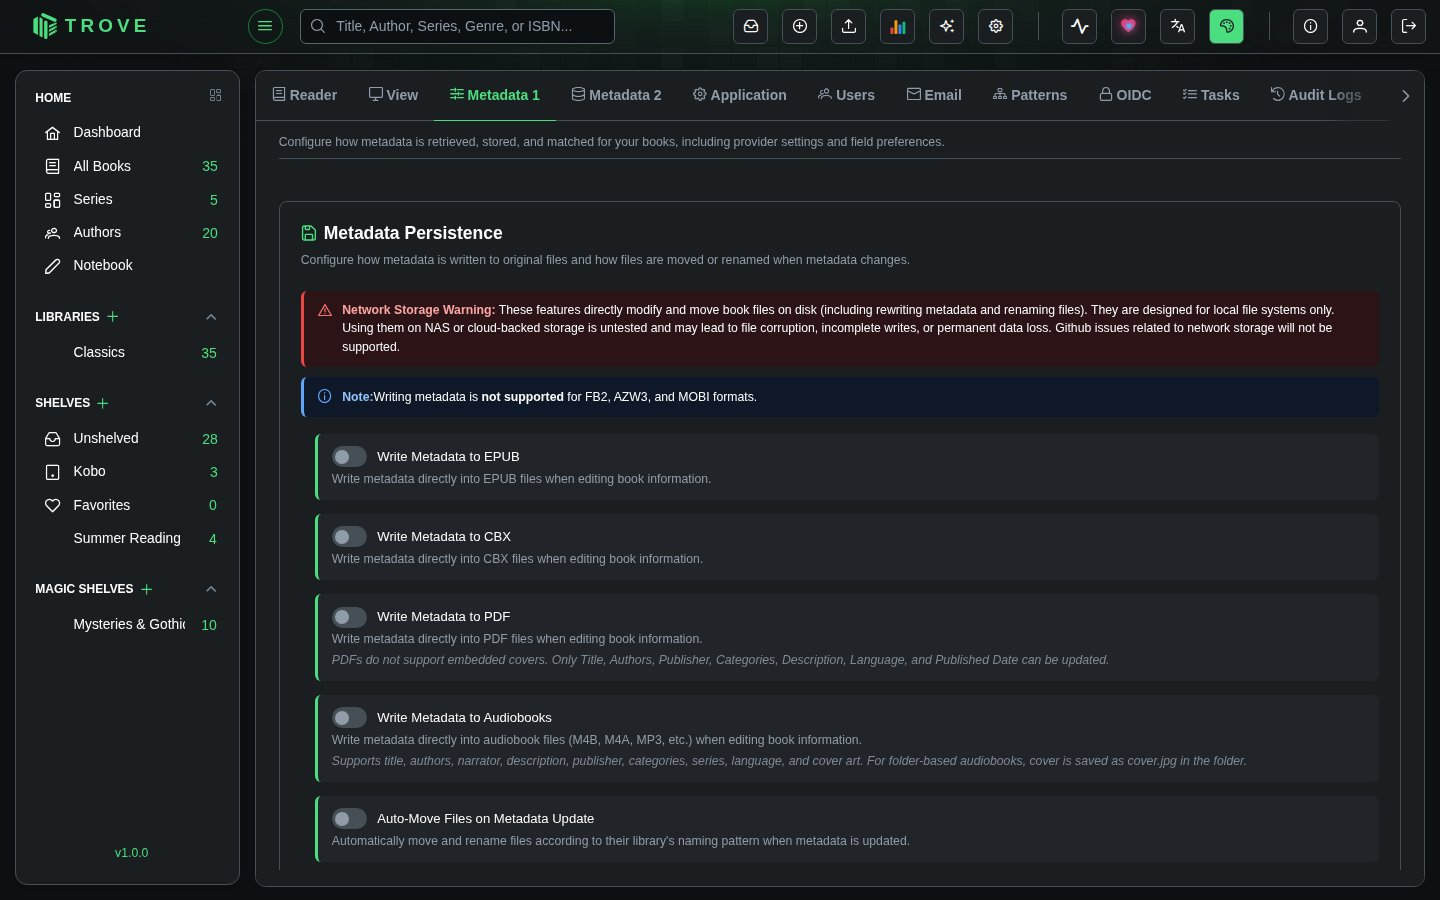
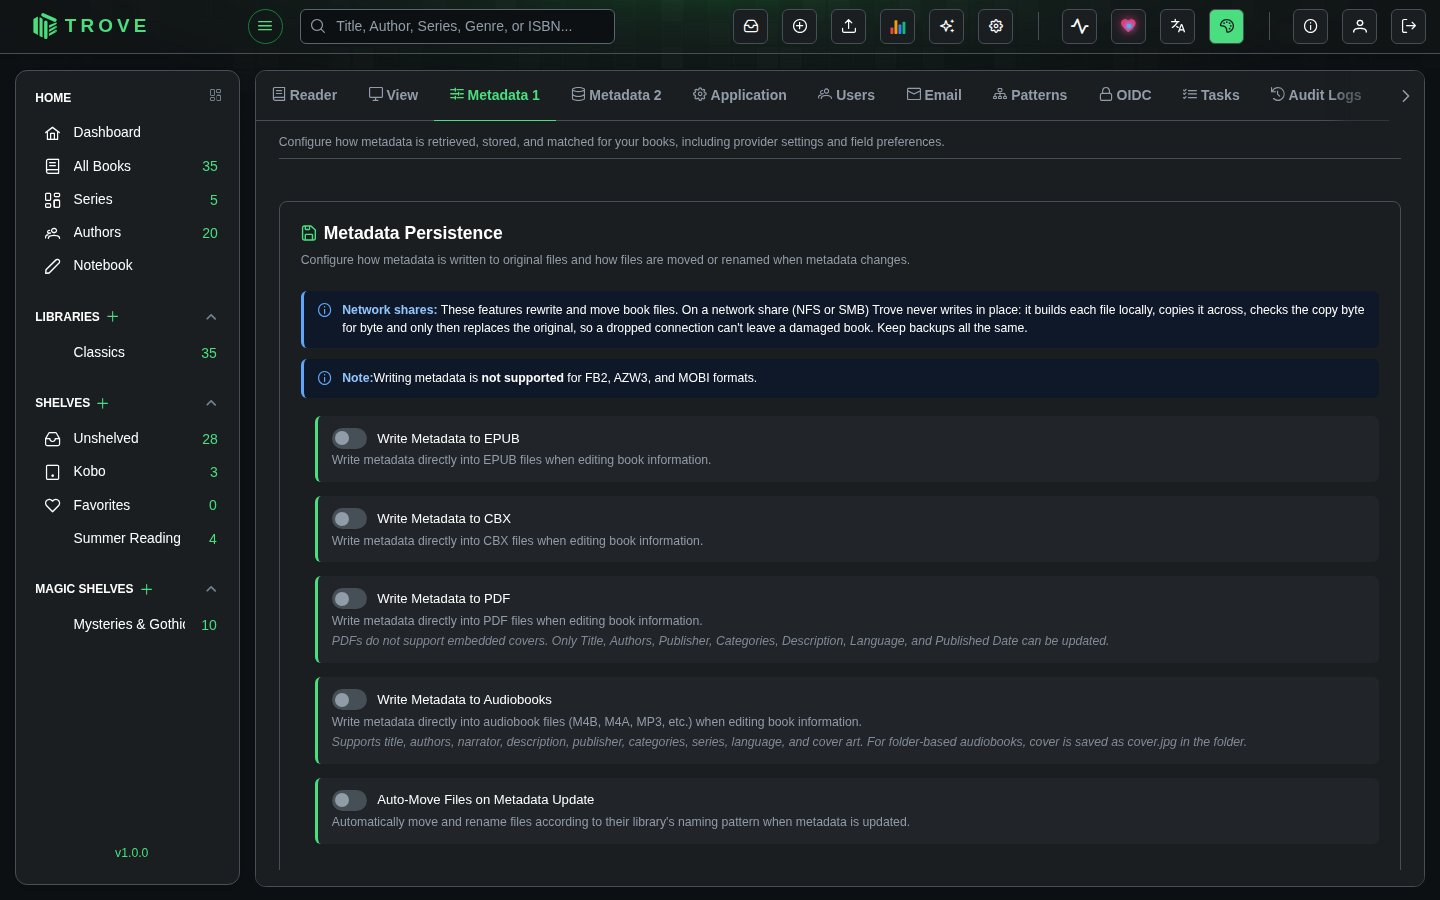
Help: sample library and data scripts; links fixed; storage notice restyled
build-library.sh and sample-data.py recreate the public-domain demonstration library and its
details, biographies and reading history, so the screenshots can be taken again from scratch; the
README describes the whole run. Ordinary links in the help no longer go through the Wayback Machine,
two stale anchors are fixed, and the index page's title no longer repeats itself.

The metadata settings' note about network shares is information now rather than a warning, so it
uses the information style; the screenshots of that section and of the application settings are
retaken from the updated app.

Claude-Session: https://claude.ai/code/session_01CoYTdkM8qacvnj6mvEZPtP

Changed region(s): [[0.1875, 0.3111, 0.9688, 0.9644]]

diff --git a/booklore-ui/public/docs/metadata/metadata-settings.html b/booklore-ui/public/docs/metadata/metadata-settings.html
@@ -49,7 +49,7 @@
 <li><strong>Additional fields</strong>: Moods, tags, age rating, content rating, narrator, abridged status, comic-specific metadata</li>
 <li><strong>File metadata</strong>: Version number, generation timestamp, and source identifier</li>
 </ul>
-<aside class="note note-info"><p class="note-title">Sidecar Import &amp; Export</p><p>You can also bulk export and import sidecar files per library from the <a href="metadata-fetch-configuration.html#-sidecar-export--import">Fetch Configuration</a> page.</p></aside>
+<aside class="note note-info"><p class="note-title">Sidecar Import &amp; Export</p><p>You can also bulk export and import sidecar files per library from the <a href="metadata-fetch-configuration.html#sidecar-export-import">Fetch Configuration</a> page.</p></aside>
 
 <h2 id="automatic-metadata-download">Automatic Metadata Download</h2>
 <p>Configure whether metadata is automatically fetched from your configured providers when new books arrive through Bookdrop.</p>
@@ -63,7 +63,7 @@
 <p>Providers are split into two groups:</p>
 <h3 id="providers-with-configuration">Providers with Configuration</h3>
 <p>These providers require additional setup (API keys, region selection, or cookies) before they can be used effectively.</p>
-<div class="table-wrap"><table><thead><tr><th>Provider</th><th>Configuration</th><th>Details</th></tr></thead><tbody><tr><td><strong>Amazon</strong></td><td>Region, Cookie</td><td>Select your Amazon region from 19 available domains (amazon.com, amazon.de, amazon.co.uk, etc.). Providing your Amazon session cookie is optional but <strong>highly recommended</strong> as it unlocks richer book metadata and bypasses rate limits. See the <a href="amazon-cookie.html">Amazon Cookie</a> guide.</td></tr><tr><td><strong>Google Books</strong></td><td>Language Restriction, API Key</td><td>Optionally restrict results to a specific language (Dutch, English, French, German, Italian, Japanese, Polish, Portuguese, Spanish, Swedish). Providing a Google Books API key increases rate limits and improves reliability.</td></tr><tr><td><strong>Hardcover</strong></td><td>API Token</td><td>Requires an API token from <a href="https://web.archive.org/web/20260303063104/https://hardcover.app/account/api">hardcover.app/account/api</a>. See the <a href="hardcover-token.html">Hardcover API</a> guide for setup instructions.</td></tr><tr><td><strong>Bookshelf</strong></td><td>API Token</td><td>Book details from <a href="https://bookshelf.nz">bookshelf.nz</a>, using an API token from your account there.</td></tr><tr><td><strong>Comic Vine</strong></td><td>API Key</td><td>Requires a Comic Vine API key for accessing comic book and graphic novel metadata.</td></tr><tr><td><strong>Audible</strong></td><td>Region</td><td>Select your Audible region from 10 available domains (audible.com, audible.co.uk, audible.de, etc.) for audiobook-specific metadata.</td></tr></tbody></table></div>
+<div class="table-wrap"><table><thead><tr><th>Provider</th><th>Configuration</th><th>Details</th></tr></thead><tbody><tr><td><strong>Amazon</strong></td><td>Region, Cookie</td><td>Select your Amazon region from 19 available domains (amazon.com, amazon.de, amazon.co.uk, etc.). Providing your Amazon session cookie is optional but <strong>highly recommended</strong> as it unlocks richer book metadata and bypasses rate limits. See the <a href="amazon-cookie.html">Amazon Cookie</a> guide.</td></tr><tr><td><strong>Google Books</strong></td><td>Language Restriction, API Key</td><td>Optionally restrict results to a specific language (Dutch, English, French, German, Italian, Japanese, Polish, Portuguese, Spanish, Swedish). Providing a Google Books API key increases rate limits and improves reliability.</td></tr><tr><td><strong>Hardcover</strong></td><td>API Token</td><td>Requires an API token from <a href="https://hardcover.app/account/api">hardcover.app/account/api</a>. See the <a href="hardcover-token.html">Hardcover API</a> guide for setup instructions.</td></tr><tr><td><strong>Bookshelf</strong></td><td>API Token</td><td>Book details from <a href="https://bookshelf.nz">bookshelf.nz</a>, using an API token from your account there.</td></tr><tr><td><strong>Comic Vine</strong></td><td>API Key</td><td>Requires a Comic Vine API key for accessing comic book and graphic novel metadata.</td></tr><tr><td><strong>Audible</strong></td><td>Region</td><td>Select your Audible region from 10 available domains (audible.com, audible.co.uk, audible.de, etc.) for audiobook-specific metadata.</td></tr></tbody></table></div>
 <aside class="note note-tip"><p class="note-title">Amazon and Goodreads</p><p>Both sites turn away automated requests. On a native install, Trove loads their pages in a headless browser, spaces its requests out and backs off when asked to, so lookups keep working during large fetches. Adding your Amazon cookie still helps.</p></aside>
 <h3 id="ready-to-use-providers">Ready-to-Use Providers</h3>
 <p>These providers work out of the box with no additional configuration. Simply toggle them on or off.</p>

diff --git a/booklore-ui/public/docs/reader-preferences.html b/booklore-ui/public/docs/reader-preferences.html
@@ -34,7 +34,7 @@
 <div class="table-wrap"><table><thead><tr><th>Setting</th><th>Options</th><th>Default</th><th>Description</th></tr></thead><tbody><tr><td><strong>Theme</strong></td><td>13 color themes</td><td>Sepia</td><td>Select a color scheme to match your reading environment and comfort. Each theme defines text color, background color, and link color. Available themes: Default, Gray, Sepia, Crimson, Meadow, Rosewood, Azure, Dawnlight, Ember, Aurora, Ocean, Mist, and AMOLED.</td></tr><tr><td><strong>Dark Mode</strong></td><td>Light, Dark</td><td>Light</td><td>Switch between light and dark backgrounds for day or night reading. Each theme has distinct light and dark variants.</td></tr></tbody></table></div>
 <h3 id="typography">Typography</h3>
 <figure><img alt="eBook Typography" loading="lazy" src="images/reader-preferences/ebook-typography.jpg"/></figure>
-<div class="table-wrap"><table><thead><tr><th>Setting</th><th>Options</th><th>Default</th><th>Description</th></tr></thead><tbody><tr><td><strong>Font Family</strong></td><td>Default, Serif, Sans Serif, Roboto, Cursive, Monospace, + custom fonts</td><td>Serif</td><td>"Default" uses the font embedded in the book file. Custom fonts uploaded through the <a href="#-custom-font-library">Custom Font Library</a> also appear here.</td></tr><tr><td><strong>Font Size</strong></td><td>8pt to 72pt (1pt steps)</td><td>16pt</td><td>Increase or decrease text size in points for optimal readability.</td></tr><tr><td><strong>Line Height</strong></td><td>1.0 to 3.0 (0.1 steps)</td><td>1.5</td><td>Adjust vertical spacing between lines for better legibility. Higher values create more breathing room between lines.</td></tr><tr><td><strong>Text Justification</strong></td><td>Left, Justified</td><td>Left</td><td>Align text to the left or justify it for a clean edge on both sides. Justified text spreads words to fill the full line width.</td></tr><tr><td><strong>Hyphenation</strong></td><td>Off, On</td><td>Off</td><td>Enable to break long words at line ends for a smoother text flow. Works best with justified text to reduce uneven spacing.</td></tr></tbody></table></div>
+<div class="table-wrap"><table><thead><tr><th>Setting</th><th>Options</th><th>Default</th><th>Description</th></tr></thead><tbody><tr><td><strong>Font Family</strong></td><td>Default, Serif, Sans Serif, Roboto, Cursive, Monospace, + custom fonts</td><td>Serif</td><td>"Default" uses the font embedded in the book file. Custom fonts uploaded through the <a href="#custom-font-library">Custom Font Library</a> also appear here.</td></tr><tr><td><strong>Font Size</strong></td><td>8pt to 72pt (1pt steps)</td><td>16pt</td><td>Increase or decrease text size in points for optimal readability.</td></tr><tr><td><strong>Line Height</strong></td><td>1.0 to 3.0 (0.1 steps)</td><td>1.5</td><td>Adjust vertical spacing between lines for better legibility. Higher values create more breathing room between lines.</td></tr><tr><td><strong>Text Justification</strong></td><td>Left, Justified</td><td>Left</td><td>Align text to the left or justify it for a clean edge on both sides. Justified text spreads words to fill the full line width.</td></tr><tr><td><strong>Hyphenation</strong></td><td>Off, On</td><td>Off</td><td>Enable to break long words at line ends for a smoother text flow. Works best with justified text to reduce uneven spacing.</td></tr></tbody></table></div>
 <h3 id="layout">Layout</h3>
 <figure><img alt="eBook Layout" loading="lazy" src="images/reader-preferences/ebook-layout.jpg"/></figure>
 <div class="table-wrap"><table><thead><tr><th>Setting</th><th>Options</th><th>Default</th><th>Description</th></tr></thead><tbody><tr><td><strong>Flow</strong></td><td>Paginated, Scrolled</td><td>Paginated</td><td>Choose between paginated (page-by-page) or continuous scrolling flow. Paginated mimics a physical book; scrolled provides a continuous reading stream.</td></tr><tr><td><strong>Max Columns</strong></td><td>1 to 4</td><td>2</td><td>Set how many columns the text is split into on wide screens. More columns work well on large monitors; single column is ideal for narrow screens.</td></tr><tr><td><strong>Column Gap</strong></td><td>0% to 50% (5% steps)</td><td>5%</td><td>Control the space between columns for a balanced layout. Only applies when using multiple columns.</td></tr><tr><td><strong>Max Width</strong></td><td>400px to 2000px (50px steps)</td><td>720px</td><td>Limit the maximum width of the reading area for easier line tracking. Narrower widths reduce eye strain on wide displays.</td></tr><tr><td><strong>Max Height</strong></td><td>400px to 2000px (50px steps)</td><td>1440px</td><td>Limit the maximum height of the reading area to fit your screen.</td></tr></tbody></table></div>

diff --git a/booklore-ui/public/docs/tools/devices.html b/booklore-ui/public/docs/tools/devices.html
@@ -31,11 +31,11 @@
 <aside class="note note-tip"><p class="note-title">Setting Up Your KOReader Device</p><p>On your KOReader device, go to <strong>Tools &gt; Progress sync &gt; Custom sync server</strong> and enter the API Path, Username, and Password shown on this page.</p></aside>
 
 <h2 id="hardcover-integration">Hardcover Integration</h2>
-<p>Sync your KOReader reading progress from Trove to your <a href="https://web.archive.org/web/20260309185346/https://hardcover.app/">Hardcover</a> account. When enabled, progress updates from KOReader are automatically pushed to Hardcover.</p>
+<p>Sync your KOReader reading progress from Trove to your <a href="https://hardcover.app/">Hardcover</a> account. When enabled, progress updates from KOReader are automatically pushed to Hardcover.</p>
 <p>Requires the <strong>KOReader Sync</strong> or <strong>Kobo Sync</strong> permission.</p>
 <figure><img alt="Hardcover Integration" loading="lazy" src="../images/tools/devices/hardcover-integration.jpg"/></figure>
 <h3 id="configuration">Configuration</h3>
-<div class="table-wrap"><table><thead><tr><th>Setting</th><th>Description</th></tr></thead><tbody><tr><td><strong>Sync KOReader Reading Progress to Hardcover</strong></td><td>Enable or disable the sync. When enabled, the API Key field appears.</td></tr><tr><td><strong>Hardcover API Key</strong></td><td>Your personal API key from Hardcover. Get it from <a href="https://web.archive.org/web/20260309185346/https://hardcover.app/account/api">hardcover.app/account/api</a>. This key is private to your account.</td></tr></tbody></table></div>
+<div class="table-wrap"><table><thead><tr><th>Setting</th><th>Description</th></tr></thead><tbody><tr><td><strong>Sync KOReader Reading Progress to Hardcover</strong></td><td>Enable or disable the sync. When enabled, the API Key field appears.</td></tr><tr><td><strong>Hardcover API Key</strong></td><td>Your personal API key from Hardcover. Get it from <a href="https://hardcover.app/account/api">hardcover.app/account/api</a>. This key is private to your account.</td></tr></tbody></table></div>
 <aside class="note note-info"><p class="note-title">How It Works</p><p>When KOReader progress is synced to Trove, Trove automatically forwards the update to Hardcover. Books are marked as "Currently Reading" when progress begins and "Read" when progress reaches 99%+. Trove matches books to Hardcover using the Hardcover book ID stored in metadata.</p></aside>
 
 <p>Step-by-step setup is in <a href="../integration/koreader.html">KOReader</a>.</p>
@@ -66,7 +66,7 @@
 <li>Kobo sync creates a dedicated "Kobo" shelf automatically. Add books to this shelf (or enable auto-add) to sync them to your device.</li>
 <li>Hardcover sync is triggered automatically whenever KOReader progress is updated. There is no manual sync button.</li>
 <li>Reading progress from KOReader and Kobo is stored separately, so both devices can be used independently.</li>
-<li>KEPUB conversion uses the <a href="https://web.archive.org/web/20260309185346/https://github.com/pgaskin/kepubify">kepubify</a> tool and is handled server-side.</li>
+<li>KEPUB conversion uses the <a href="https://github.com/pgaskin/kepubify">kepubify</a> tool and is handled server-side.</li>
 <li>All device settings changes are reflected immediately without needing to restart the server.</li>
 </ul>
 </main>

diff --git a/booklore-ui/public/docs/metadata/hardcover-token.html b/booklore-ui/public/docs/metadata/hardcover-token.html
@@ -16,12 +16,12 @@
 <nav class="sidebar" id="docs-nav" aria-label="Help topics"></nav>
 <main class="doc">
 <h1>Hardcover token</h1>
-<p class="lede"><a href="https://web.archive.org/web/20260316213240/https://hardcover.app/">Hardcover</a> is a book tracking and discovery platform with rich metadata: covers, descriptions, community ratings, review counts, moods, and tags. To use it as a metadata provider in Trove, you need a free API token from your Hardcover account.</p>
+<p class="lede"><a href="https://hardcover.app/">Hardcover</a> is a book tracking and discovery platform with rich metadata: covers, descriptions, community ratings, review counts, moods, and tags. To use it as a metadata provider in Trove, you need a free API token from your Hardcover account.</p>
 
 <h2 id="get-your-token">Get Your Token</h2>
 <ol>
-<li>Sign up or log in at <a href="https://web.archive.org/web/20260316213240/https://hardcover.app/">hardcover.app</a></li>
-<li>Go to <a href="https://web.archive.org/web/20260316213240/https://hardcover.app/account/api">Account &gt; API</a> to open the API Access page</li>
+<li>Sign up or log in at <a href="https://hardcover.app/">hardcover.app</a></li>
+<li>Go to <a href="https://hardcover.app/account/api">Account &gt; API</a> to open the API Access page</li>
 <li>Copy the token from the text box. It starts with <code>Bearer</code> followed by a long string beginning with <code>eyJ...</code></li>
 </ol>
 <figure><img alt="Hardcover API Access page showing the Bearer token" loading="lazy" src="https://web.archive.org/web/20260316213240im_/https://booklore.org/assets/images/hardcover-1-208cf5d155cda0086886fcba1e62c12b.jpg"/></figure>

diff --git a/booklore-ui/public/docs/integration/koreader.html b/booklore-ui/public/docs/integration/koreader.html
@@ -16,7 +16,7 @@
 <nav class="sidebar" id="docs-nav" aria-label="Help topics"></nav>
 <main class="doc">
 <h1>KOReader</h1>
-<p class="lede">KOReader sync lets you push and pull reading progress between <a href="https://web.archive.org/web/20260304100502/https://koreader.rocks/">KOReader</a> and Trove. Read a few chapters on your e-reader, push the progress, and it shows up in Trove. Pick up on another device, pull the latest position, and continue where you left off.</p>
+<p class="lede">KOReader sync lets you push and pull reading progress between <a href="https://koreader.rocks/">KOReader</a> and Trove. Read a few chapters on your e-reader, push the progress, and it shows up in Trove. Pick up on another device, pull the latest position, and continue where you left off.</p>
 <p>Trove matches books by file content hash, so the same physical file must exist in both places. In practice this means KOReader needs to have downloaded the book from Trove (typically via OPDS) so the file bytes match. A book sideloaded from a different source won't produce the same hash, and progress won't link up.</p>
 <aside class="note note-tip"><p class="note-title">Sync with Trove Reader</p><p>By default, KOReader progress and the built-in Trove web reader progress are tracked independently (they use different position formats). You can optionally enable <strong>Sync reading progress with Trove eBook Reader</strong> in the KOReader settings on the Devices page, which converts KOReader's XPointer positions to EPUB CFI so your web reader picks up where you left off. This conversion is approximate and may update by chapter rather than exact page.</p></aside>
 

diff --git a/booklore-ui/public/docs/integration/komga-api.html b/booklore-ui/public/docs/integration/komga-api.html
@@ -19,7 +19,7 @@
 <p class="lede">The Komga API allows you to access your Trove library using popular manga and comic reading applications that support the Komga server standard. This guide will walk you through setting up the Komga API and connecting your favorite reading apps to your Trove collection.</p>
 
 <h2 id="what-is-the-komga-api">What is the Komga API?</h2>
-<p><a href="https://web.archive.org/web/20260302013459/https://komga.org/">Komga</a> is a popular media server for comics and manga. Trove provides a Komga-compatible API layer that enables Komga clients to access your Trove library. With the Komga API enabled in Trove, you can:</p>
+<p><a href="https://komga.org/">Komga</a> is a popular media server for comics and manga. Trove provides a Komga-compatible API layer that enables Komga clients to access your Trove library. With the Komga API enabled in Trove, you can:</p>
 <ul>
 <li>Browse your library from any Komga-compatible reading app</li>
 <li>Read comics and manga directly on your mobile device</li>
@@ -344,7 +344,7 @@ GET /komga/api/v1/books/123?clean=true</code></pre>
 <li>⚠ Some advanced Komga features may not be implemented</li>
 <li>⚠ Collection support is mapped to Magic Shelves (limited functionality)</li>
 </ul>
-<p>For the complete Komga API specification, see: <a href="https://web.archive.org/web/20260302013459/https://komga.org/">Komga Documentation</a></p>
+<p>For the complete Komga API specification, see: <a href="https://komga.org/">Komga Documentation</a></p>
 </main>
 </div>
 </body>

diff --git a/booklore-ui/public/docs/authentication/authelia.html b/booklore-ui/public/docs/authentication/authelia.html
@@ -60,7 +60,7 @@ Trove receives and validates the tokens, extracts user information, matches it w
 <p>Valid Client ID’s have the following characteristics:</p>
 <ul>
 <li>Less than or equal to 100 characters.</li>
-<li>Only contains <a href="https://web.archive.org/web/20260112202618/https://datatracker.ietf.org/doc/html/rfc3986#section-2.3">RFC3986 Unreserved Characters.</a></li>
+<li>Only contains <a href="https://datatracker.ietf.org/doc/html/rfc3986#section-2.3">RFC3986 Unreserved Characters.</a></li>
 <li>Completely unique from other configured clients.</li>
 </ul>
 <pre><code class="language-yaml">identity_providers:
@@ -273,7 +273,7 @@ You'll be redirected to the standard Trove login page with username/password fie
 
 <h2 id="additional-resources">Additional Resources</h2>
 <ul>
-<li><strong><a href="https://web.archive.org/web/20260112202618/https://www.authelia.com/">Authelia Documentation</a>:</strong> Official documentation for Authelia configuration</li>
+<li><strong><a href="https://www.authelia.com/">Authelia Documentation</a>:</strong> Official documentation for Authelia configuration</li>
 <li><strong>OAuth 2.0 Specification:</strong> Understanding the protocol behind SSO</li>
 <li><strong>OpenID Connect Core:</strong> Detailed information about OIDC flows</li>
 <li><strong>Security Best Practices:</strong> Regular security audits and penetration testing</li>

diff --git a/booklore-ui/public/docs/metadata/lubimyczytac.html b/booklore-ui/public/docs/metadata/lubimyczytac.html
@@ -16,7 +16,7 @@
 <nav class="sidebar" id="docs-nav" aria-label="Help topics"></nav>
 <main class="doc">
 <h1>LubimyCzytac</h1>
-<p class="lede"><a href="https://web.archive.org/web/20260305062700/https://lubimyczytac.pl/">LubimyCzytac</a> is Poland's largest book rating and review platform, often called the "Polish Goodreads." It's the best source for metadata on Polish literature and Polish translations, covering titles, authors, descriptions, ratings, series information, ISBNs, and cover images that may not exist on English-language platforms.</p>
+<p class="lede"><a href="https://lubimyczytac.pl/">LubimyCzytac</a> is Poland's largest book rating and review platform, often called the "Polish Goodreads." It's the best source for metadata on Polish literature and Polish translations, covering titles, authors, descriptions, ratings, series information, ISBNs, and cover images that may not exist on English-language platforms.</p>
 <aside class="note note-info"><p class="note-title">No Setup Required</p><p>LubimyCzytac doesn't need API tokens, cookies, or any authentication. Switch it on under <strong>Metadata Providers</strong> in <strong>Settings › Metadata 1</strong>, and give it a priority in <strong>Settings › Metadata 2</strong>.</p></aside>
 
 <h2 id="enabling-lubimyczytac">Enabling LubimyCzytac</h2>

diff --git a/booklore-ui/public/docs/metadata/ranobedb.html b/booklore-ui/public/docs/metadata/ranobedb.html
@@ -16,7 +16,7 @@
 <nav class="sidebar" id="docs-nav" aria-label="Help topics"></nav>
 <main class="doc">
 <h1>RanobeDB</h1>
-<p class="lede"><a href="https://web.archive.org/web/20260305125548/https://ranobedb.org/">RanobeDB</a> is a community-driven light novel database with extensive metadata for Japanese light novels, including English titles, authors, descriptions, series information, ratings, and cover images. If you have a light novel collection, this is the provider to prioritize. It covers light novels only, not manga or other book types.</p>
+<p class="lede"><a href="https://ranobedb.org/">RanobeDB</a> is a community-driven light novel database with extensive metadata for Japanese light novels, including English titles, authors, descriptions, series information, ratings, and cover images. If you have a light novel collection, this is the provider to prioritize. It covers light novels only, not manga or other book types.</p>
 <aside class="note note-info"><p class="note-title">No Setup Required</p><p>RanobeDB doesn't need API tokens, cookies, or any authentication. Switch it on under <strong>Metadata Providers</strong> in <strong>Settings › Metadata 1</strong>, and give it a priority in <strong>Settings › Metadata 2</strong>.</p></aside>
 
 <h2 id="enabling-ranobedb">Enabling RanobeDB</h2>

diff --git a/booklore-ui/public/docs/authentication/authentik.html b/booklore-ui/public/docs/authentication/authentik.html
@@ -356,7 +356,7 @@ You'll be redirected to the standard Trove login page with username/password fie
 
 <h2 id="additional-resources">Additional Resources</h2>
 <ul>
-<li><strong>Authentik Documentation:</strong> <a href="https://web.archive.org/web/20260216110411/https://goauthentik.io/docs/">goauthentik.io/docs</a></li>
+<li><strong>Authentik Documentation:</strong> <a href="https://goauthentik.io/docs/">goauthentik.io/docs</a></li>
 <li><strong>OAuth 2.0 Specification:</strong> Understanding the protocol behind SSO</li>
 <li><strong>OpenID Connect Core:</strong> Detailed information about OIDC flows</li>
 <li><strong>Security Best Practices:</strong> Regular security audits and penetration testing</li>

diff --git a/booklore-ui/public/docs/email-setup.html b/booklore-ui/public/docs/email-setup.html
@@ -31,7 +31,7 @@
 <h2 id="step-1-generate-gmail-app-password">Step 1: Generate Gmail App Password</h2>
 <p>Since Gmail requires secure authentication, you'll need to create an app-specific password for Trove.</p>
 <ol>
-<li>Go to your <a href="https://web.archive.org/web/20260103092012/https://myaccount.google.com/security">Google Account Security Settings</a></li>
+<li>Go to your <a href="https://myaccount.google.com/security">Google Account Security Settings</a></li>
 <li>Ensure <strong>2-Step Verification</strong> is enabled (required for app passwords)</li>
 <li>Click on <strong>App passwords</strong> under "Signing in to Google"</li>
 </ol>

diff --git a/booklore-ui/public/docs/metadata/amazon-cookie.html b/booklore-ui/public/docs/metadata/amazon-cookie.html
@@ -25,8 +25,8 @@
 <li>
 <p><strong>Open your web browser</strong> and navigate to your regional Amazon website:</p>
 <ul>
-<li>US: <a href="https://web.archive.org/web/20260228130856/https://www.amazon.com/">https://www.amazon.com</a></li>
-<li>UK: <a href="https://web.archive.org/web/20260228130856/https://www.amazon.co.uk/">https://www.amazon.co.uk</a></li>
+<li>US: <a href="https://www.amazon.com/">https://www.amazon.com</a></li>
+<li>UK: <a href="https://www.amazon.co.uk/">https://www.amazon.co.uk</a></li>
 <li>Other regions: Use your local Amazon domain</li>
 </ul>
 </li>
